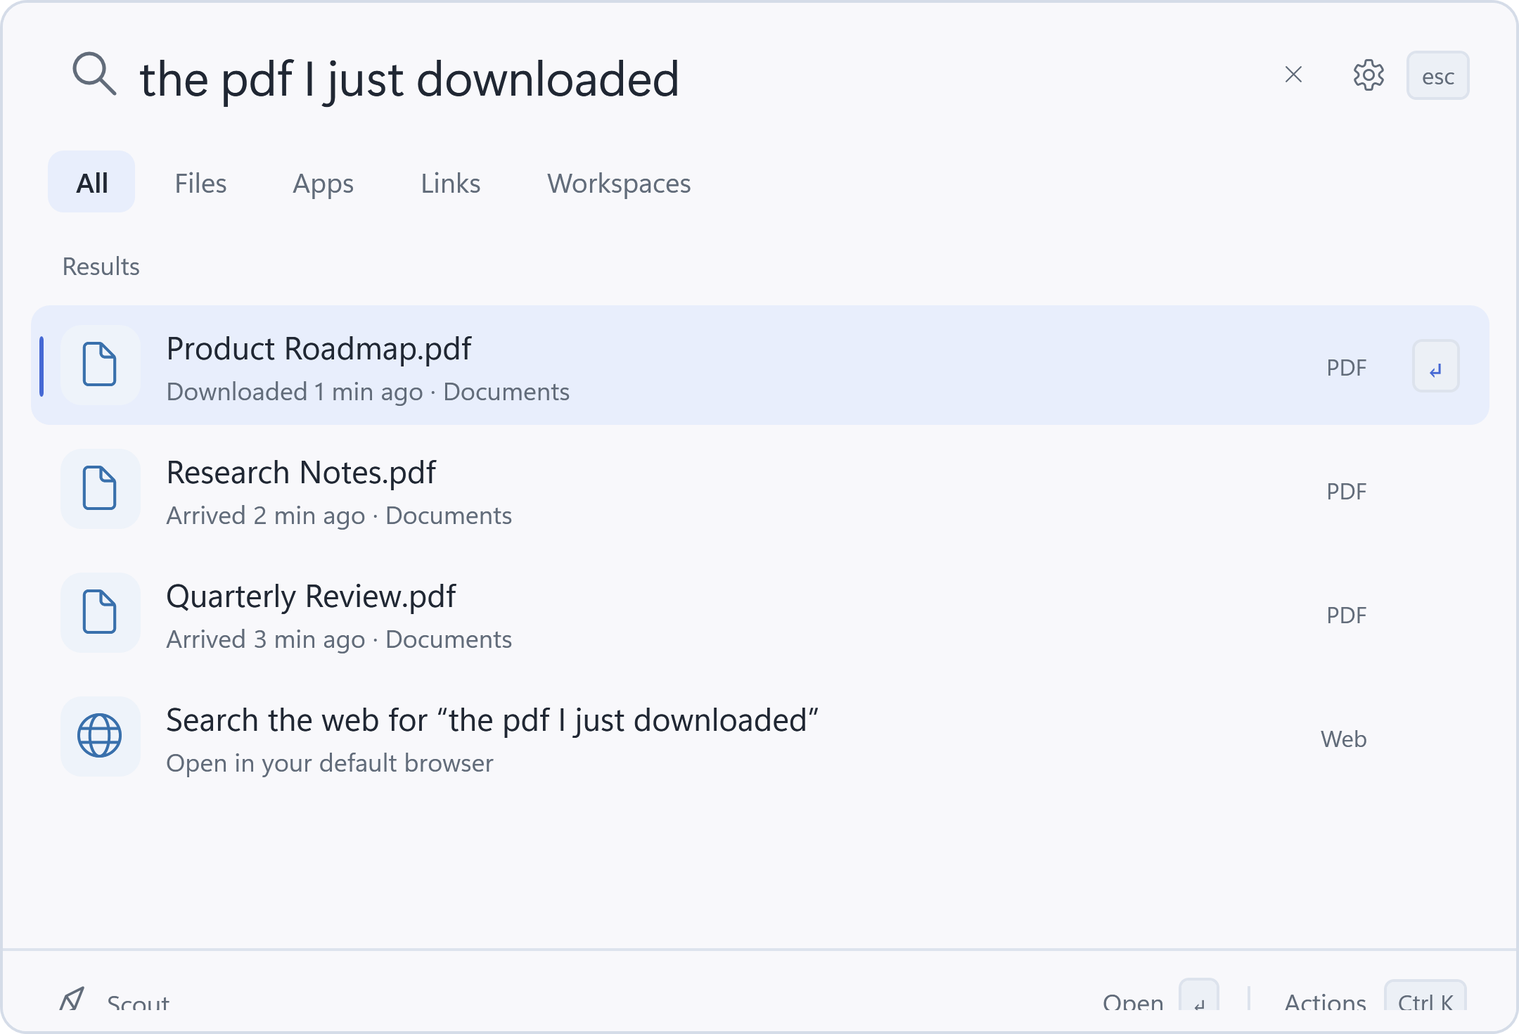
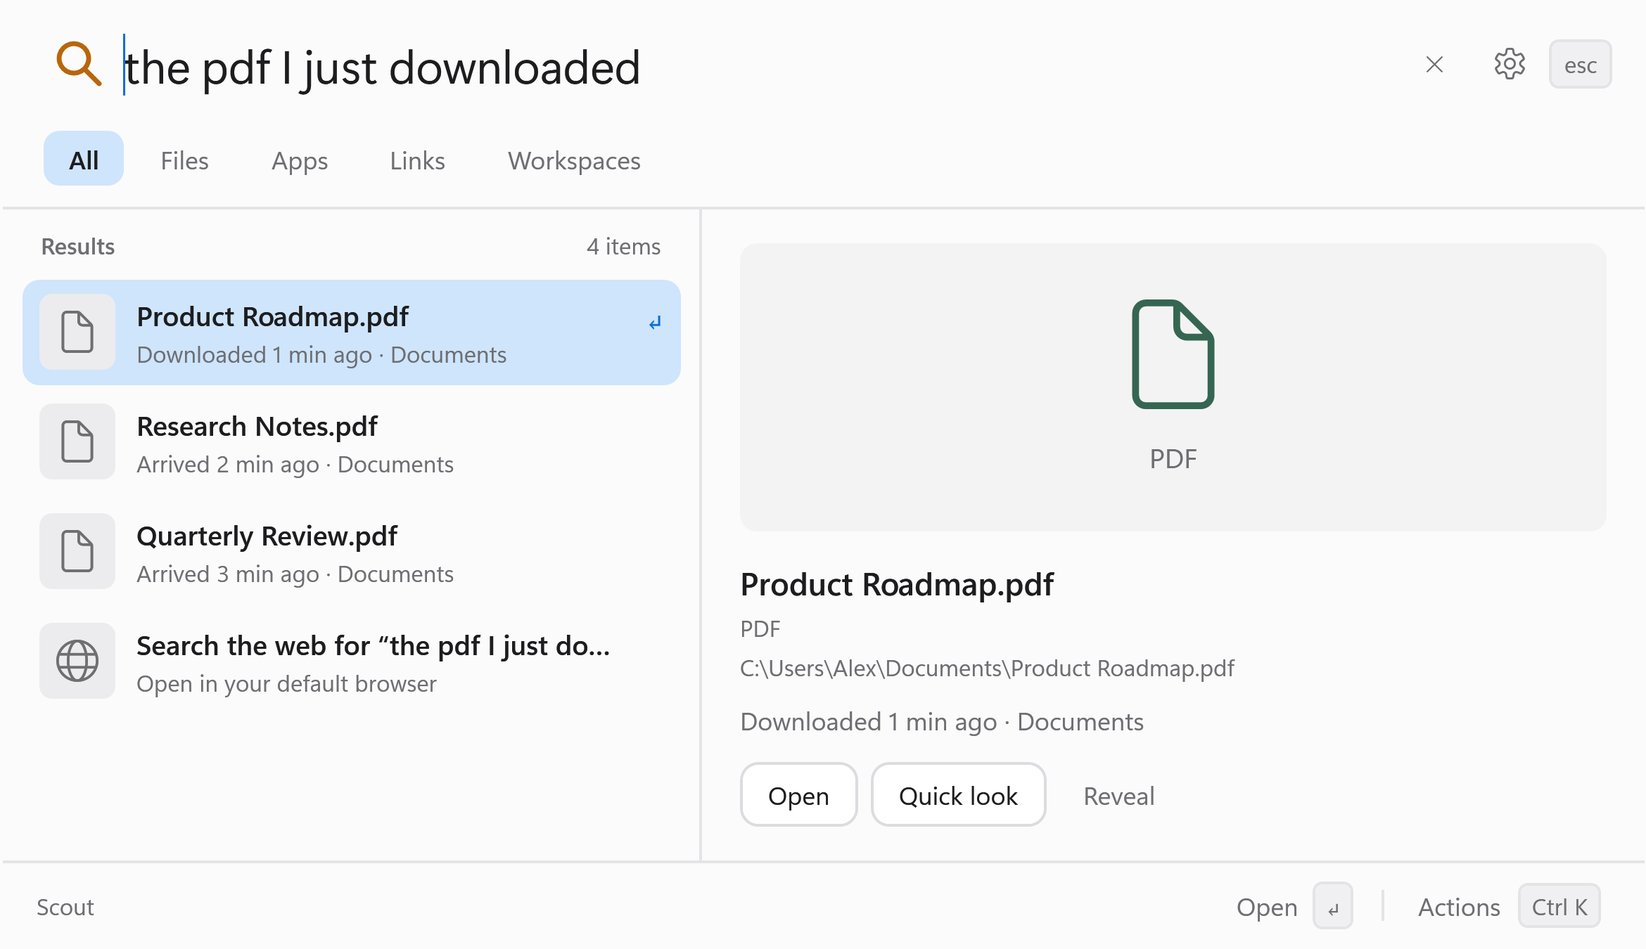
Publish Scout 0.1.0 beta 3 on the website
Point downloads at v0.1.0-beta.3, show the new Ctrl+Space shortcut, and
replace the product mockups with screenshots of the current interface.

diff --git a/index.html b/index.html
@@ -35,11 +35,11 @@
         <div class="hero-context"><span class="context-item"><svg viewBox="0 0 24 24" fill="currentColor" aria-hidden="true"><path d="m2 5 9-1.2V11H2V5Zm10-1.4L22 2v9H12V3.6ZM2 12h9v7.2L2 18v-6Zm10 0h10v10l-10-1.6V12Z"/></svg> Windows 11 x64</span><span class="context-item"><span class="local-dot" aria-hidden="true"></span> Local by default</span></div>
         <h1 id="hero-title">Find your work.<br>Control your PC.</h1>
         <p class="hero-description">Your files, apps, and everyday settings.<br>One shortcut to bring it all together.</p>
-        <div class="hero-actions"><a class="button button-hero" href="https://github.com/adilzubair/scout-site/releases/download/v0.1.0-beta.2/Scout-Setup.exe"><svg viewBox="0 0 24 24" fill="currentColor" aria-hidden="true"><path d="m2 5 9-1.2V11H2V5Zm10-1.4L22 2v9H12V3.6ZM2 12h9v7.2L2 18v-6Zm10 0h10v10l-10-1.6V12Z"/></svg> Download for Windows</a><a class="button button-hero button-secondary" href="#demo">Explore Scout</a></div>
-        <p class="release-note">Free beta 2 · Unsigned installer · No admin access needed</p>
-        <div class="shortcut-note"><span>Already installed? Open Scout with</span><span class="key-combination"><kbd>Ctrl</kbd><span>+</span><kbd>Alt</kbd><span>+</span><kbd>Space</kbd></span></div>
+        <div class="hero-actions"><a class="button button-hero" href="https://github.com/adilzubair/scout-site/releases/download/v0.1.0-beta.3/Scout-Setup.exe"><svg viewBox="0 0 24 24" fill="currentColor" aria-hidden="true"><path d="m2 5 9-1.2V11H2V5Zm10-1.4L22 2v9H12V3.6ZM2 12h9v7.2L2 18v-6Zm10 0h10v10l-10-1.6V12Z"/></svg> Download for Windows</a><a class="button button-hero button-secondary" href="#demo">Explore Scout</a></div>
+        <p class="release-note">Free beta 3 · Unsigned installer · No admin access needed</p>
+        <div class="shortcut-note"><span>Already installed? Open Scout with</span><span class="key-combination"><kbd>Ctrl</kbd><span>+</span><kbd>Space</kbd></span></div>
       </div>
-      <figure class="hero-preview"><div class="product-panel product-panel-hero" role="img" aria-label="Illustrative Scout search: the pdf I just downloaded. Product Roadmap.pdf is selected with its completed download time."><div class="product-windowbar"><span class="product-window-brand"><svg viewBox="0 0 32 32" fill="none" aria-hidden="true"><path d="m24 8-6 13-10 3 4-13 12-3Z" fill="currentColor"/><circle cx="16" cy="16" r="2" fill="#2f6bff"/></svg> Scout</span><span>Find what you remember</span><span class="window-controls" aria-hidden="true">− &nbsp; □ &nbsp; ×</span></div><div class="product-query"><svg viewBox="0 0 24 24" fill="none" aria-hidden="true"><circle cx="10" cy="10" r="6.5"/><path d="m15 15 5 5"/></svg><span>the pdf I just downloaded</span><span class="product-escape" aria-hidden="true">esc</span></div><div class="product-scopes" aria-hidden="true"><span class="selected-scope">All</span><span>Files</span><span>Apps</span><span>Links</span><span>Workspaces</span></div><p class="product-results-label">Results</p><div class="product-results"><div class="product-row selected"><span class="product-file-icon"><svg viewBox="0 0 24 24" fill="none" aria-hidden="true"><path d="M14 3H6a2 2 0 0 0-2 2v14a2 2 0 0 0 2 2h12a2 2 0 0 0 2-2V9l-6-6Z"/><path d="M14 3v6h6"/></svg></span><div class="product-file-copy"><strong>Product Roadmap.pdf</strong><span>Downloaded 1 min ago · Documents</span></div><span class="product-kind">PDF</span><span class="product-row-key" aria-hidden="true">↵</span></div><div class="product-row"><span class="product-file-icon"><svg viewBox="0 0 24 24" fill="none" aria-hidden="true"><path d="M14 3H6a2 2 0 0 0-2 2v14a2 2 0 0 0 2 2h12a2 2 0 0 0 2-2V9l-6-6Z"/><path d="M14 3v6h6"/></svg></span><div class="product-file-copy"><strong>Research Notes.pdf</strong><span>Arrived 2 min ago · Documents</span></div><span class="product-kind">PDF</span><span class="product-row-key" aria-hidden="true"></span></div><div class="product-row"><span class="product-file-icon"><svg viewBox="0 0 24 24" fill="none" aria-hidden="true"><path d="M14 3H6a2 2 0 0 0-2 2v14a2 2 0 0 0 2 2h12a2 2 0 0 0 2-2V9l-6-6Z"/><path d="M14 3v6h6"/></svg></span><div class="product-file-copy"><strong>Quarterly Review.pdf</strong><span>Arrived 3 min ago · Documents</span></div><span class="product-kind">PDF</span><span class="product-row-key" aria-hidden="true"></span></div></div><div class="product-footer"><span>Scout</span><span>Open <kbd>↵</kbd> <span class="footer-divider"></span> Actions <kbd>Ctrl K</kbd></span></div></div><figcaption>Illustrative Scout interface. Search by a moment, a name, or a command.</figcaption></figure>
+      <figure class="hero-preview"><img class="product-shot product-shot-hero" src="scout-arrival-dark-3x.png" width="780" height="450" alt="Scout searching for &quot;the pdf I just downloaded&quot;: Product Roadmap.pdf is selected, with its download time and a preview panel beside the results."><figcaption>Search by a moment, a name, or a command.</figcaption></figure>
     </section>
 
     <section class="demo-section section shell" id="demo" aria-labelledby="demo-title">
@@ -63,7 +63,7 @@
             <p class="detail-note">Try “files I opened this morning.” Matches depend on recorded Windows Recent Items or successful Scout launches.</p>
           </div>
           <figure class="demo-preview">
-            <div class="product-panel" role="img" aria-label="Illustrative Scout search: the pdf I just downloaded. Product Roadmap.pdf is selected with its completed download time."><div class="product-query"><svg viewBox="0 0 24 24" fill="none" aria-hidden="true"><circle cx="10" cy="10" r="6.5"/><path d="m15 15 5 5"/></svg><span>the pdf I just downloaded</span><span class="product-escape" aria-hidden="true">esc</span></div><div class="product-scopes" aria-hidden="true"><span class="selected-scope">All</span><span>Files</span><span>Apps</span><span>Links</span><span>Workspaces</span></div><p class="product-results-label">Results</p><div class="product-results"><div class="product-row selected"><span class="product-file-icon"><svg viewBox="0 0 24 24" fill="none" aria-hidden="true"><path d="M14 3H6a2 2 0 0 0-2 2v14a2 2 0 0 0 2 2h12a2 2 0 0 0 2-2V9l-6-6Z"/><path d="M14 3v6h6"/></svg></span><div class="product-file-copy"><strong>Product Roadmap.pdf</strong><span>Downloaded 1 min ago · Documents</span></div><span class="product-kind">PDF</span><span class="product-row-key" aria-hidden="true">↵</span></div><div class="product-row"><span class="product-file-icon"><svg viewBox="0 0 24 24" fill="none" aria-hidden="true"><path d="M14 3H6a2 2 0 0 0-2 2v14a2 2 0 0 0 2 2h12a2 2 0 0 0 2-2V9l-6-6Z"/><path d="M14 3v6h6"/></svg></span><div class="product-file-copy"><strong>Research Notes.pdf</strong><span>Arrived 2 min ago · Documents</span></div><span class="product-kind">PDF</span><span class="product-row-key" aria-hidden="true"></span></div><div class="product-row"><span class="product-file-icon"><svg viewBox="0 0 24 24" fill="none" aria-hidden="true"><path d="M14 3H6a2 2 0 0 0-2 2v14a2 2 0 0 0 2 2h12a2 2 0 0 0 2-2V9l-6-6Z"/><path d="M14 3v6h6"/></svg></span><div class="product-file-copy"><strong>Quarterly Review.pdf</strong><span>Arrived 3 min ago · Documents</span></div><span class="product-kind">PDF</span><span class="product-row-key" aria-hidden="true"></span></div></div><div class="product-footer"><span>Scout</span><span>Open <kbd>↵</kbd> <span class="footer-divider"></span> Actions <kbd>Ctrl K</kbd></span></div></div>
+            <img class="product-shot" src="scout-arrival-dark-3x.png" width="780" height="450" loading="lazy" alt="Scout searching for &quot;the pdf I just downloaded&quot;: each result shows when the file arrived and which folder it is in.">
             <figcaption>A folder and timestamp give each match context.</figcaption>
           </figure>
         </article>
@@ -105,7 +105,7 @@
             <p class="detail-note">Workspaces reopen saved items. They do not restore unsaved document edits or an app’s previous window layout.</p>
           </div>
           <figure class="demo-preview">
-            <div class="product-panel" role="img" aria-label="Illustrative Scout search: latest 3 files in downloads. Three selected files can be reviewed and saved as a workspace."><div class="product-query"><svg viewBox="0 0 24 24" fill="none" aria-hidden="true"><circle cx="10" cy="10" r="6.5"/><path d="m15 15 5 5"/></svg><span>latest 3 files in downloads</span><span class="product-escape" aria-hidden="true">esc</span></div><div class="product-scopes" aria-hidden="true"><span class="selected-scope">All</span><span>Files</span><span>Apps</span><span>Links</span><span>Workspaces</span></div><p class="product-results-label">Results</p><div class="product-results"><div class="product-group"><span class="product-file-icon"><svg viewBox="0 0 24 24" fill="none" aria-hidden="true"><path d="M14 3H6a2 2 0 0 0-2 2v14a2 2 0 0 0 2 2h12a2 2 0 0 0 2-2V9l-6-6Z"/><path d="M14 3v6h6"/></svg></span><div><strong>Open all 3 files</strong><span>Presentation, spreadsheet, and mockup</span></div><span aria-hidden="true">↵</span></div><div class="product-row"><span class="product-file-icon"><svg viewBox="0 0 24 24" fill="none" aria-hidden="true"><path d="M14 3H6a2 2 0 0 0-2 2v14a2 2 0 0 0 2 2h12a2 2 0 0 0 2-2V9l-6-6Z"/><path d="M14 3v6h6"/></svg></span><div class="product-file-copy"><strong>Q4 Product Launch.pptx</strong><span>Modified 2 min ago · Downloads</span></div><span class="product-kind">PPTX</span><span class="product-row-key" aria-hidden="true">✓</span></div><div class="product-row"><span class="product-file-icon"><svg viewBox="0 0 24 24" fill="none" aria-hidden="true"><path d="M14 3H6a2 2 0 0 0-2 2v14a2 2 0 0 0 2 2h12a2 2 0 0 0 2-2V9l-6-6Z"/><path d="M14 3v6h6"/></svg></span><div class="product-file-copy"><strong>Campaign Budget.xlsx</strong><span>Modified 5 min ago · Downloads</span></div><span class="product-kind">XLSX</span><span class="product-row-key" aria-hidden="true">✓</span></div><div class="product-row"><span class="product-file-icon"><svg viewBox="0 0 24 24" fill="none" aria-hidden="true"><path d="M14 3H6a2 2 0 0 0-2 2v14a2 2 0 0 0 2 2h12a2 2 0 0 0 2-2V9l-6-6Z"/><path d="M14 3v6h6"/></svg></span><div class="product-file-copy"><strong>Landing Page Mockup.png</strong><span>Modified 8 min ago · Downloads</span></div><span class="product-kind">PNG</span><span class="product-row-key" aria-hidden="true">✓</span></div></div><div class="product-footer"><span>3 selected</span><span>Review group · Save workspace</span></div></div>
+            <img class="product-shot" src="scout-download-group-dark-3x.png" width="780" height="506" loading="lazy" alt="Scout searching for &quot;latest 3 files in downloads&quot;: the three files are grouped so they can be opened together or saved as a workspace.">
             <figcaption>Review a group now. Save a workspace for later.</figcaption>
           </figure>
         </article>
@@ -153,18 +153,18 @@
 
     <section class="download-section section shell" id="download" aria-labelledby="download-title">
       <div class="download-intro">
-        <div><h2 id="download-title">Make room for your next task.</h2><p>Install Scout for your Windows account, then press <span class="inline-shortcut">Ctrl + Alt + Space</span> to get started.</p></div>
-        <div class="download-actions"><a class="button" href="https://github.com/adilzubair/scout-site/releases/download/v0.1.0-beta.2/Scout-Setup.exe"><svg viewBox="0 0 24 24" fill="currentColor" aria-hidden="true"><path d="m2 5 9-1.2V11H2V5Zm10-1.4L22 2v9H12V3.6ZM2 12h9v7.2L2 18v-6Zm10 0h10v10l-10-1.6V12Z"/></svg> Download for Windows</a><span>Free beta 2 · Windows 11 x64</span><a class="text-link" href="https://github.com/adilzubair/scout-site/releases/download/v0.1.0-beta.2/Scout-Setup.exe.sha256">Installer checksum</a></div>
+        <div><h2 id="download-title">Make room for your next task.</h2><p>Install Scout for your Windows account, then press <span class="inline-shortcut">Ctrl + Space</span> to get started.</p></div>
+        <div class="download-actions"><a class="button" href="https://github.com/adilzubair/scout-site/releases/download/v0.1.0-beta.3/Scout-Setup.exe"><svg viewBox="0 0 24 24" fill="currentColor" aria-hidden="true"><path d="m2 5 9-1.2V11H2V5Zm10-1.4L22 2v9H12V3.6ZM2 12h9v7.2L2 18v-6Zm10 0h10v10l-10-1.6V12Z"/></svg> Download for Windows</a><span>Free beta 3 · Windows 11 x64</span><a class="text-link" href="https://github.com/adilzubair/scout-site/releases/download/v0.1.0-beta.3/Scout-Setup.exe.sha256">Installer checksum</a></div>
       </div>
       <p class="beta-notice"><strong>Unsigned beta.</strong> Windows may show an unknown-publisher or SmartScreen warning. Download from the Scout GitHub release and check the checksum before choosing to proceed. Updates are manual.</p>
       <div class="faq" aria-labelledby="faq-title">
         <h3 id="faq-title">A few things to know</h3>
-        <details><summary>How do I install, open, and quit Scout?</summary><div class="faq-answer"><p>Run Scout-Setup.exe and follow the prompts. Setup installs for your account without admin access, adds Scout to Start, and opens it when finished.</p><p>Press <kbd>Ctrl</kbd> + <kbd>Alt</kbd> + <kbd>Space</kbd> to open the panel. Closing the panel leaves Scout in the notification area. Press <kbd>Ctrl</kbd> + <kbd>Q</kbd> or choose Quit to exit.</p></div></details>
-        <details><summary>Can I use a portable version?</summary><div class="faq-answer"><p><a href="https://github.com/adilzubair/scout-site/releases/download/v0.1.0-beta.2/Scout-win-x64.zip">Download the portable ZIP</a>, extract the entire archive, and run Scout.exe. It uses the same local settings storage as the installer. <a href="https://github.com/adilzubair/scout-site/releases/download/v0.1.0-beta.2/Scout-win-x64.zip.sha256">ZIP checksum</a></p></div></details>
+        <details><summary>How do I install, open, and quit Scout?</summary><div class="faq-answer"><p>Run Scout-Setup.exe and follow the prompts. Setup installs for your account without admin access, adds Scout to Start, and opens it when finished.</p><p>Press <kbd>Ctrl</kbd> + <kbd>Space</kbd> to open the panel. Closing the panel leaves Scout in the notification area. Press <kbd>Ctrl</kbd> + <kbd>Q</kbd> or choose Quit to exit.</p></div></details>
+        <details><summary>Can I use a portable version?</summary><div class="faq-answer"><p><a href="https://github.com/adilzubair/scout-site/releases/download/v0.1.0-beta.3/Scout-win-x64.zip">Download the portable ZIP</a>, extract the entire archive, and run Scout.exe. It uses the same local settings storage as the installer. <a href="https://github.com/adilzubair/scout-site/releases/download/v0.1.0-beta.3/Scout-win-x64.zip.sha256">ZIP checksum</a></p></div></details>
         <details><summary>Do I need AI or a Copilot+ PC?</summary><div class="faq-answer"><p>No. Core search, supported folder and activity queries, calculations, system commands, and workspaces work without optional AI on Windows 11 x64. Local AI is off by default and requires separate runtime and model downloads with several GB of storage.</p><p>CPU inference is available but can be slow on ordinary laptops. CUDA requires a supported NVIDIA GPU. AI helps refine candidates; it does not guarantee a match or read document body text.</p></div></details>
         <details><summary>What can content search and previews read?</summary><div class="faq-answer"><p>Optional content indexing covers supported text/source, Office, and OpenDocument files in selected folders. PDF body text and OCR are not indexed. Files larger than 16 MiB are skipped, and extraction is limited to 64,000 characters per file.</p><p>PDF page previews are available separately. Office and OpenDocument previews show text rather than the full application layout.</p></div></details>
         <details><summary>Will every PC control work on my device?</summary><div class="faq-answer"><p>Radio, sound, and display controls depend on Windows policy, drivers, and hardware support. Scout reports failures. Brightness commands target supported integrated displays; external monitors commonly do not support them.</p><p>The <code>dark</code> command toggles appearance. Notification commands open Windows notification settings. Commands run only when you explicitly choose them.</p></div></details>
-        <details><summary>How do I update or uninstall?</summary><div class="faq-answer"><p>Updates are manual. Quit Scout, then run the newer installer. For a portable copy, replace the extracted application folder with the newer ZIP’s contents.</p><p>Uninstall through Start or Windows Settings → Apps → Installed apps. Settings and workspaces remain in <code>%LOCALAPPDATA%\Scout</code> for a later reinstall. <a href="https://github.com/adilzubair/scout-site/releases/tag/v0.1.0-beta.2">Read the beta 2 release notes</a>.</p></div></details>
+        <details><summary>How do I update or uninstall?</summary><div class="faq-answer"><p>Updates are manual. Quit Scout, then run the newer installer. For a portable copy, replace the extracted application folder with the newer ZIP’s contents.</p><p>Uninstall through Start or Windows Settings → Apps → Installed apps. Settings and workspaces remain in <code>%LOCALAPPDATA%\Scout</code> for a later reinstall. <a href="https://github.com/adilzubair/scout-site/releases/tag/v0.1.0-beta.3">Read the beta 3 release notes</a>.</p></div></details>
       </div>
     </section>
   </main>

diff --git a/styles.css b/styles.css
@@ -87,36 +87,9 @@ section[id], #faq-title { scroll-margin-top: 120px; }
 .hero-preview { max-width: 1080px; margin: 64px auto 0; padding: 8px; border: 1px solid #ffffff20; border-radius: 18px; background: #1b1b1b; }
 .hero-preview figcaption { margin: 17px 8px 10px; }
 figcaption { margin-top: 16px; color: var(--muted); text-align: center; font-size: 12px; }
-.product-panel, .launcher-illustration { overflow: hidden; width: 100%; background: #13151b; border: 1px solid #ffffff18; border-radius: 14px; box-shadow: 0 16px 48px -24px #000; text-align: left; font-family: Inter, "Segoe UI", Arial, sans-serif; }
-.product-panel-hero { border-radius: 18px; }
-.product-windowbar { display: flex; align-items: center; justify-content: space-between; gap: 20px; padding: 16px 24px; border-bottom: 1px solid #ffffff0d; color: #949fb3; font-size: 12px; }
-.product-window-brand { display: inline-flex; align-items: center; gap: 8px; color: #dbe5f5; font-weight: 600; }
-.product-window-brand svg { width: 20px; height: 20px; color: #6da2ff; }
-.window-controls { letter-spacing: .1em; }
-.product-query { display: flex; align-items: center; gap: 14px; padding: 25px 24px 22px; color: #eef3fc; font-size: clamp(15px, 2vw, 26px); line-height: 1.35; }
-.product-panel-hero .product-query { padding: 32px 32px 26px; font-size: clamp(18px, 2.5vw, 32px); }
-.product-query > svg { width: 26px; height: 26px; stroke: #7f8da7; stroke-width: 1.7; flex: 0 0 auto; }
-.product-escape { margin-left: auto; border: 1px solid #ffffff1a; border-radius: 6px; padding: 3px 8px; font-size: 12px; color: #94a0b6; }
-.product-scopes { display: flex; gap: 5px; padding: 0 24px 22px; font-size: 12px; color: #a3aec2; }
-.product-scopes > span { padding: 5px 10px; border-radius: 7px; }
-.selected-scope { background: #243556; color: #94baff; }
-.product-results-label { margin: 0 24px 10px; font-size: 12px; color: #8996ae; }
-.product-results { padding: 0 12px 22px; }
-.product-row, .product-group { display: flex; align-items: center; gap: 14px; padding: 16px 14px; border: 1px solid transparent; border-radius: 11px; min-height: 80px; }
-.product-row.selected, .product-group { background: #172944; border-color: #2d4770; }
-.product-file-icon { display: flex; align-items: center; justify-content: center; width: 44px; height: 44px; flex: 0 0 auto; border: 1px solid #ffffff0d; border-radius: 10px; background: #192236; color: #78a8ff; }
-.product-file-icon svg { width: 23px; height: 23px; stroke: currentColor; stroke-width: 1.7; stroke-linecap: round; stroke-linejoin: round; }
-.product-file-copy, .product-group > div { min-width: 0; }
-.product-row strong, .product-group strong { display: block; font-size: 16px; font-weight: 500; overflow-wrap: anywhere; }
-.product-row .product-file-copy > span, .product-group div > span { display: block; margin-top: 4px; font-size: 12px; color: #a3b0c6; }
-.product-panel-hero .product-row { min-height: 86px; }
-.product-panel-hero .product-row strong { font-size: 18px; }
-.product-panel-hero .product-row .product-file-copy > span { font-size: 13px; }
-.product-kind { margin-left: auto; color: #a4b2ca; font-size: 11px; }
-.product-row-key { width: 20px; color: #83b4ff; }
-.product-group > span:last-child { margin-left: auto; color: #83b4ff; }
-.product-footer { display: flex; flex-wrap: wrap; justify-content: space-between; gap: 12px; padding: 15px 24px; border-top: 1px solid #ffffff0d; color: #a4b1c8; font-size: 11px; }
-.footer-divider { display: inline-block; height: 12px; margin: 0 10px; border-left: 1px solid #ffffff26; vertical-align: middle; }
+.launcher-illustration { overflow: hidden; width: 100%; background: #13151b; border: 1px solid #ffffff18; border-radius: 14px; box-shadow: 0 16px 48px -24px #000; text-align: left; font-family: Inter, "Segoe UI", Arial, sans-serif; }
+.product-shot { display: block; width: 100%; height: auto; border: 1px solid #ffffff18; border-radius: 14px; box-shadow: 0 16px 48px -24px #000; }
+.product-shot-hero { border-radius: 18px; }
 .section-heading { max-width: 760px; margin: 0 auto 38px; text-align: center; }
 .section-heading > p { margin-top: 18px; font-size: 17px; color: var(--muted); }
 .demo-section { border-top: 1px solid var(--line); text-align: center; }
@@ -265,26 +238,7 @@ summary::marker { color: #c5c5c5; }
   .shortcut-note { width: 100%; flex-direction: column; gap: 10px; padding: 15px; }
   .hero-preview { margin-top: 42px; padding: 5px; border-radius: 16px; }
   .hero-preview figcaption { margin: 12px 8px 7px; font-size: 10px; }
-  .product-panel, .launcher-illustration { border-radius: 13px; }
-  .product-windowbar { padding: 12px 14px; font-size: 10px; }
-  .product-windowbar > span:nth-child(2) { display: none; }
-  .product-query, .product-panel-hero .product-query { padding: 20px 14px; gap: 10px; font-size: 16px; }
-  .product-query > svg { width: 20px; height: 20px; }
-  .product-escape { display: none; }
-  .product-scopes { padding: 0 12px 18px; gap: 0; font-size: 10px; }
-  .product-scopes > span { padding-inline: 8px; }
-  .product-results-label { margin-inline: 14px; font-size: 10px; }
-  .product-results { padding: 0 7px 16px; }
-  .product-row, .product-group, .product-panel-hero .product-row { gap: 10px; padding: 13px 10px; min-height: 72px; }
-  .product-file-icon { width: 33px; height: 37px; border-radius: 8px; }
-  .product-file-icon svg { width: 19px; height: 19px; }
-  .product-row strong, .product-group strong, .product-panel-hero .product-row strong { font-size: 12px; }
-  .product-row .product-file-copy > span, .product-group div > span, .product-panel-hero .product-row .product-file-copy > span { font-size: 10px; }
-  .product-kind { display: none; }
-  .product-row-key { width: 14px; margin-left: auto; }
-  .product-footer { padding: 13px 14px; font-size: 10px; }
-  .product-footer kbd { font-size: 9px; padding: 2px 5px; }
-  .footer-divider { margin-inline: 5px; }
+  .launcher-illustration, .product-shot { border-radius: 13px; }
   .section { padding-block: 48px; }
   .section-heading > p { font-size: 16px; }
   .demo-switcher { display: flex; }

diff --git a/README.md b/README.md
@@ -5,10 +5,10 @@ controlling everyday PC settings, and reopening saved workspaces from one
 keyboard shortcut.
 
 - [Website](https://scout.muhamedadil.com/)
-- [Download the Windows beta](https://github.com/adilzubair/scout-site/releases/tag/v0.1.0-beta.2)
+- [Download the Windows beta](https://github.com/adilzubair/scout-site/releases/tag/v0.1.0-beta.3)
 
 Download `Scout-Setup.exe`, run it without admin access, and press
-**Ctrl+Alt+Space** to open Scout. Setup creates Start menu shortcuts for Scout
+**Ctrl+Space** to open Scout. Setup creates Start menu shortcuts for Scout
 and its uninstaller. The portable `Scout-win-x64.zip` is also available.
 
 This beta is unsigned, so Windows may show an unknown-publisher or SmartScreen
